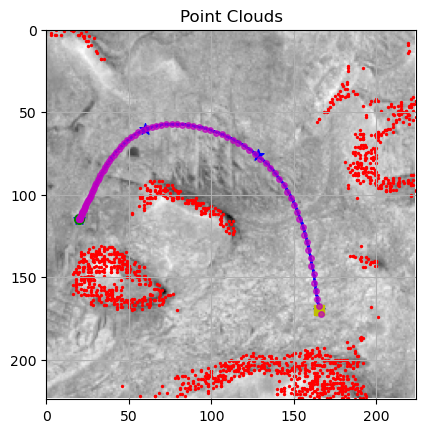
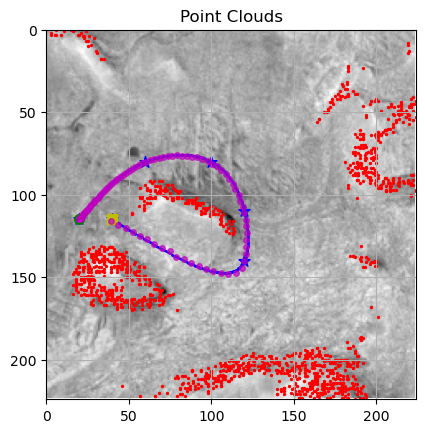
More Rover Experiments

Changed region(s): [[0.1835, 0.2702, 0.7647, 0.7506]]

diff --git a/Engine/MarsRover.py b/Engine/MarsRover.py
@@ -50,7 +50,7 @@ class Rover:
             [(25,50),(85,70),(75,118),(100,142),(71,175),(15,167)]
             ]
         elif self.env_id==1:
-            case=4
+            case=5
             if case==2:
                 path=[
                 [(20,115),(50,125),(100,129),(112,160),(165,170)]
@@ -62,6 +62,10 @@ class Rover:
             elif case==4:
                 path=[
                 [(20,115),(60,60),(128,76),(165,170)]
+                ]
+            elif case==5:
+                path=[
+                [(20,115),(60,80),(100,80),(120,110),(120,140),(40,115)]
                 ]
         else:
             print("Invalid Environment Chosen!")
@@ -77,6 +81,61 @@ class Rover:
         rsList=BicycleModel.getReachSets(X, Y, yawList, V, D, A)
         VisualizeMarsRover.vizMarsTrajRS(self.obs,self.image,spline_path,path_mpc,path,rsList)
 
+    def getReachSetsTopBot(self):
+        '''
+        Get Reachable Sets of Robot and Cloud, comparing the top and bottom.
+        '''
+        VisualizeMarsRover.vizMarsPointClouds(self.obs,self.image)
+
+        if self.env_id==2:
+            path=[
+            [(75,25),(52,70),(55,110),
+            (100,100),
+            (70,135),(80,190),(140,200),
+            (136,160),
+            (150,100),(100,50),(85,40)]
+            ]
+        elif self.env_id==0:
+            path=[
+            [(25,50),(85,70),(75,118),(100,142),(71,175),(15,167)]
+            ]
+        elif self.env_id==1:
+            case=5
+            if case==2:
+                path=[
+                [(20,115),(50,125),(100,129),(112,160),(165,170)]
+                ]
+            elif case==3:
+                path=[
+                [(20,115),(65,79),(100,85),(125,128),(165,170)]
+                ]
+            elif case==4:
+                path=[
+                [(20,115),(60,60),(128,76),(165,170)]
+                ]
+            elif case==5:
+                path=[
+                [(20,115),(60,80),(100,80),(120,110),(120,140),(40,115)]
+                ]
+        else:
+            print("Invalid Environment Chosen!")
+            exit(0)
+        #VisualizeMarsRover.vizMarsTraj(self.obs,self.image,path)
+        (T, X, Y, yawList, V, D, A, spline_path) = doMPC(path)
+
+        path_mpc=[]
+        for x,y in zip(X,Y):
+            path_mpc.append((x,y))
+        VisualizeMarsRover.vizMarsTrajMPC(self.obs,self.image,path,spline_path,path_mpc)
+
+        (Er_top,Er_bot)=self.getErrors()
+        rsListTop=BicycleModel.getReachSetsEr(X, Y, yawList, V, D, A, Er_top)
+        rsListBot=BicycleModel.getReachSetsEr(X, Y, yawList, V, D, A, Er_bot)
+
+        print(">> STATUS: Reachable Sets Computed!")
+
+        VisualizeMarsRover.vizMarsTrajRSComp(self.obs,self.image,spline_path,path_mpc,path,rsListTop,rsListBot)
+
 
     def getCellOrder(self):
         '''
@@ -88,9 +147,44 @@ class Rover:
         cellOrder=BicycleModel.getCellOrderBasedError(v,phi,delta)
         return cellOrder
 
+    def getErrors(self):
+        '''
+        Based on the ouput we got from `self.getCellOrder()`,
+        some perturbation of the matrix were picked.
+        '''
+        p=20
+        Er_top_0={
+        (0,4): [1-(p/100),1+(p/100)],
+        (0,5): [1-(p/100),1+(p/100)],
+        (1,2): [1-(p/100),1+(p/100)],
+        (1,3): [1-(p/100),1+(p/100)]
+        }
 
+        Er_bot_0={
+        (0,3): [1-(p/100),1+(p/100)],
+        (0,2): [1-(p/100),1+(p/100)],
+        (1,6): [1-(p/100),1+(p/100)],
+        (1,5): [1-(p/100),1+(p/100)]
+        }
+
+        Er_top={
+        (0,6): [1-(p/100),1+(p/100)],
+        (0,2): [1-(p/100),1+(p/100)],
+        (1,2): [1-(p/100),1+(p/100)],
+        (1,3): [1-(p/100),1+(p/100)]
+        }
+
+        Er_bot={
+        (0,3): [1-(p/100),1+(p/100)],
+        (0,2): [1-(p/100),1+(p/100)],
+        (1,6): [1-(p/100),1+(p/100)],
+        (1,5): [1-(p/100),1+(p/100)]
+        }
+
+        return Er_top,Er_bot
 
 if True:
     rov=Rover()
+    rov.getReachSetsTopBot()
     #rov.getReachSets()
-    rov.getCellOrder()
+    #rov.getCellOrder()

diff --git a/Engine/VisualizeMars.py b/Engine/VisualizeMars.py
@@ -641,13 +641,86 @@ class VisualizeMarsRover:
         plt.plot(spline_path[0], spline_path[1], c='black', marker='o', linewidth=1, markersize=1, linestyle='-', alpha=1.0)
 
         for rsList in traj:
-            for rs in rsList:    
+            for rs in rsList:
                 (X,Y)=VisualizeMarsRover.getPlotsLineFine(rs,th1,th2)
                 fgSafe=StarOp.checkIntersectionPoints(rs,obs)
                 if fgSafe==True:
                     plt.plot(X,Y,'r.',alpha=0.05)
                 else:
                     plt.plot(X,Y,'b.',alpha=0.05)
+
+        # point cloud obstacle
+        plt.scatter(obs[:,0], obs[:,1], c='red', s=2)
+
+        for path_xy in mpc_path:
+            path_x = path_xy[0]
+            path_y = path_xy[1]
+
+            plt.plot(path_x, path_y, c='m', marker='o', linewidth=0.5, markersize=1, linestyle=linestyle, alpha=1.0)
+
+        for path in ref_path:
+            x_ref=[p[0] for p in path]
+            y_ref=[p[1] for p in path]
+            plt.scatter(x_ref, y_ref, marker='*', c='m', s=70, alpha=1)
+
+        # start
+        plt.plot(ref_path[0][0][0], ref_path[0][0][1], c='g', marker='o', markersize=7)
+        # end
+        plt.plot(ref_path[-1][-1][0], ref_path[-1][-1][1], c='y', marker='s', markersize=7)
+
+        ax = fig.gca()
+        ax.set_xticks(np.arange(xmin,xmax,50))
+        ax.set_yticks(np.arange(ymin,ymax,50))
+        ax.set_aspect('equal')
+        ax.imshow(terrain_img, cmap='gray')
+        plt.xlim(xmin, xmax)
+        plt.ylim(ymax, ymin)
+        plt.grid()
+        plt.title(title_str)
+
+        if True:
+            plt.savefig(ROVER_RESULTS+fname, dpi=100, bbox_inches='tight')
+            plt.close()
+        else:
+            plt.show()
+
+    def vizMarsTrajRSComp(obs, terrain_img, spline_path, mpc_path, ref_path, trajTop, trajBot, fname="TrajRSComp", xlim=(0,224), ylim=(0,224), title_str="Point Clouds"):
+        '''
+        Modified from: https://bitbucket.org/nakanoya/tasknet-icra2021/src/master/Motion_Planning/utils/visualize_utils.py
+        '''
+        xmin = xlim[0]
+        xmax = xlim[1]
+
+        ymin = ylim[0]
+        ymax = ylim[1]
+
+        fig = plt.figure()
+
+        linestyle = 'solid'
+        color = 'b'
+
+        th1=0
+        th2=1
+
+        plt.plot(spline_path[0], spline_path[1], c='black', marker='o', linewidth=1, markersize=1, linestyle='-', alpha=1.0)
+
+        for rsList in trajTop:
+            for rs in rsList:
+                (X,Y)=VisualizeMarsRover.getPlotsLineFine(rs,th1,th2)
+                fgSafe=StarOp.checkIntersectionPoints(rs,obs)
+                if fgSafe==True:
+                    plt.plot(X,Y,'r.',alpha=0.05)
+                else:
+                    plt.plot(X,Y,'b.',alpha=0.05)
+
+        for rsList in trajBot:
+            for rs in rsList:
+                (X,Y)=VisualizeMarsRover.getPlotsLineFine(rs,th1,th2)
+                fgSafe=StarOp.checkIntersectionPoints(rs,obs)
+                if fgSafe==True:
+                    plt.plot(X,Y,'m.',alpha=0.1)
+                else:
+                    plt.plot(X,Y,'g.',alpha=0.1)
 
         # point cloud obstacle
         plt.scatter(obs[:,0], obs[:,1], c='red', s=2)

diff --git a/Engine/BicycleModel.py b/Engine/BicycleModel.py
@@ -131,9 +131,9 @@ class BicycleModel:
                 P[0]=(X[i],X[i]) # Update x
                 P[1]=(Y[i],Y[i]) # Update y
                 P[2]=(Vel[i],Vel[i]) # Update v
-                P[3]=(yawList[i],yawList[i]) # Update \phi
+                P[3]=(yawList[i],yawList[i]) # Update /phi
                 P[4]=(A[i],A[i]) # Update a
-                P[5]=(D[i],D[i]) # Update \delta
+                P[5]=(D[i],D[i]) # Update /delta
                 initialSet=(C,V,P)
                 reachSList=BicycleModel.getRSPoints(initialSet)
                 rsList.append(reachSList)
@@ -157,6 +157,56 @@ class BicycleModel:
             reachSList.append(reachS)
         return reachSList
 
+    def getReachSetsEr(X, Y, yawList, Vel, D, A, Er):
+        '''
+        Pickle a set of Robot-Cloud pair, given a initial set,
+        and U
+        '''
+        rcPair={}
+        rbt_all=[]
+        cld_all=[]
+        dim=7
+        C=[0]*dim
+        V=np.identity(dim)
+
+        rg=int(math.floor(len(D)/((len(D)*PER_COVERAGE)/100)))
+        listT=list(range(1,len(D),rg))
+        listT.append(len(D)-1)
+
+        rsList=[]
+        for i in range(len(D)):
+            if (i in listT):
+                print(i)
+                P=[(1,1)]*dim
+                P[0]=(X[i],X[i]) # Update x
+                P[1]=(Y[i],Y[i]) # Update y
+                P[2]=(Vel[i],Vel[i]) # Update v
+                P[3]=(yawList[i],yawList[i]) # Update /phi
+                P[4]=(A[i],A[i]) # Update a
+                P[5]=(D[i],D[i]) # Update /delta
+                initialSet=(C,V,P)
+                reachSList=BicycleModel.getRSPointsEr(initialSet,Er)
+                rsList.append(reachSList)
+
+        return rsList
+
+    def getRSPointsEr(initialSet,Er):
+        C=initialSet[0]
+        V=initialSet[1]
+        P=initialSet[2]
+        v=P[2][0]
+        phi=P[3][0]
+        delta=P[5][0]
+        (dynA,dynB,e)=BicycleModel.getDynamics(v,phi,delta)
+        A=BicycleModel.createMatrix(dynA,dynB,'+',1)
+        reachS=initialSet
+        reachSList=[initialSet]
+        for i in range(RS_STEPS+1):
+            rs=Split(A,Er,reachS,1)
+            reachS=rs.getReachableSet()
+            reachSList.append(reachS)
+        return reachSList
+
     def getCellOrderBasedError(v,phi,delta):
         '''
         Returns cell ordering for the bicycle model
@@ -164,12 +214,18 @@ class BicycleModel:
 
         (A,B,Er)=BicycleModel.getDynamics(v,phi,delta)
         A_club=BicycleModel.createMatrix(A,B,'+',1)
-        cellOrder=OrdUnc(A_club).getOrder()
+        projMat=np.zeros(A_club.shape)
+        projMat[1][1]=1
+        projMat[0][0]=1
+        A_club_proj=np.matmul(projMat,A_club)
+        cellOrder=OrdUnc(A_club_proj).getOrder()
 
         if True:
             np.set_printoptions(precision=3,suppress=True)
             print(cellOrder)
             print("\n\n")
             print(A_club)
+            print("\n")
+            print(A_club_proj)
 
         return cellOrder

diff --git a/Engine/OrderUncertainties_prod.py b/Engine/OrderUncertainties_prod.py
@@ -144,14 +144,16 @@ class OrdUnc:
         dSig=[]
 
         max=-9999
+        prodQ=1
         for j in range(self.n):
             uj=uh[:,j]
             vj=v[j,:].reshape(self.n,1)
             q=np.matmul(np.matmul(uj,B),vj)
+            prodQ=prodQ*q
             if q.real[0]>max:
                 max=q.real[0]
 
-        return max
+        return prodQ
 
     def multSig(self,B):
 
@@ -198,11 +200,13 @@ class OrdUnc:
             uSigH=uSig.conjugate().transpose()
             vSigH=vSig.conjugate().transpose()
             Bh=B.conjugate().transpose()
+            prodQ=1
             if sig>0:
                 T=(np.matmul(np.matmul(vSigH,Bh),uSig))+(np.matmul(np.matmul(uSigH,B),vSig))
                 (eVals,w)=LA.eig(T)
                 for eig in eVals:
                     q=sig+((EPSILON*(eig))/2)+(EPSILON*EPSILON)
+                    prodQ=prodQ*q
                     #print("\tq: ",q)
                     if q>max:
                         max=q
@@ -212,11 +216,12 @@ class OrdUnc:
                 (eVals,w)=LA.eig(T)
                 for eig in eVals:
                     q=EPSILON*(math.sqrt(eig))+(EPSILON*EPSILON)
+                    prodQ=prodQ*q
                     #print("\tq: ",q)
                     if q>max:
                         max=q
 
-        return max
+        return prodQ
 
     def sortMat(A):
 

diff --git a/Engine/ComputeU.py b/Engine/ComputeU.py
@@ -53,8 +53,8 @@ class CompU:
         for i in range(self.n):
             for j in range(self.n):
                 if (i,j) in self.Er:
-                    a=float(self.A[i][j]*self.Er[(i,j)][0])
-                    b=float(self.A[i][j]*self.Er[(i,j)][1])
+                    a=float(self.A[i][j]+self.Er[(i,j)][0])
+                    b=float(self.A[i][j]+self.Er[(i,j)][1])
                     c=(a+b)/2
                     Ac[i][j]=c
                 else:
@@ -552,8 +552,8 @@ class CompU:
             for j in range(self.n):
                 A_tilde[i][j]=self.A[i][j]
         for key in self.Er:
-            a=float(self.Er[key][0]*self.A[key[0]][key[1]])
-            b=float(self.Er[key][1]*self.A[key[0]][key[1]])
+            a=float(self.Er[key][0]+self.A[key[0]][key[1]])
+            b=float(self.Er[key][1]+self.A[key[0]][key[1]])
             #print(a,b)
             #print(mp.mpi(float(a),float(b)))
             #A_tilde[key[0]][key[1]]=mp.mpi(float(self.Er[key][0]*self.A[key[0]][key[1]]),float(self.Er[key][1]*self.A[key[0]][key[1]]))
